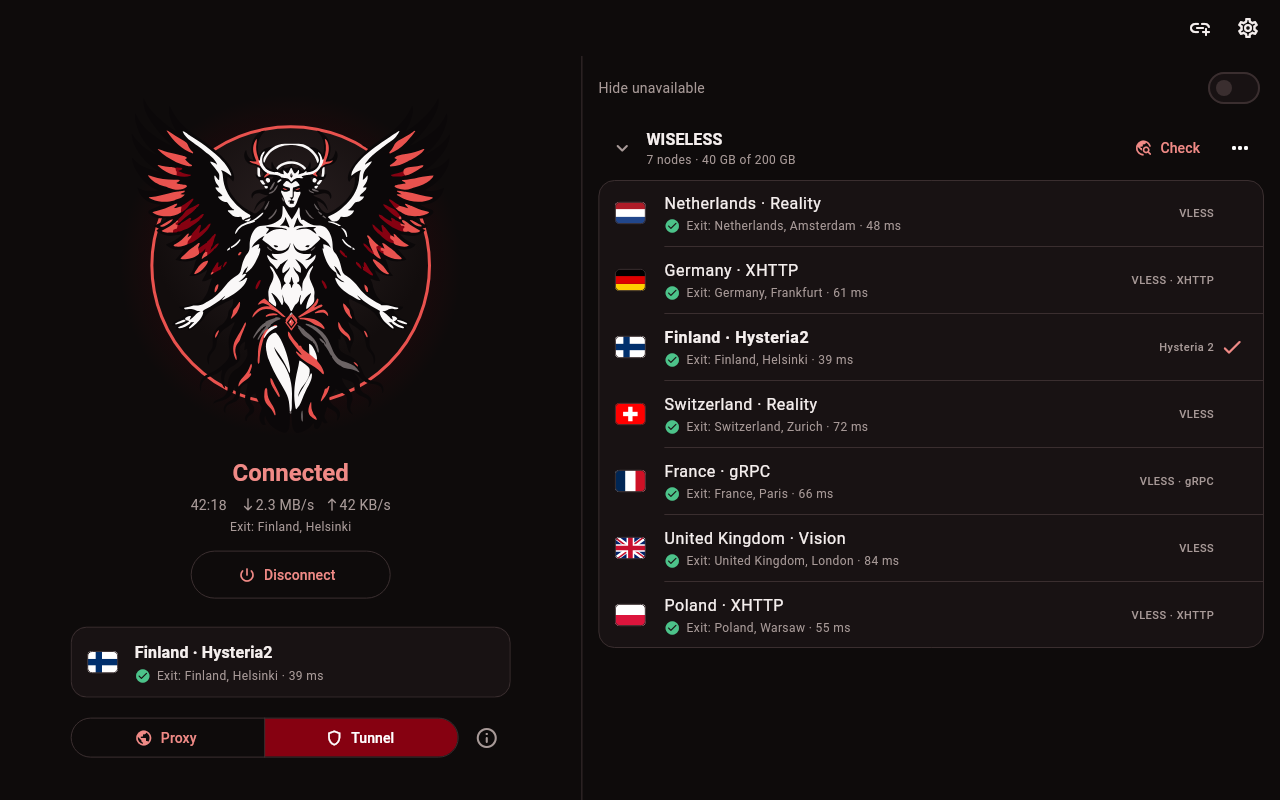
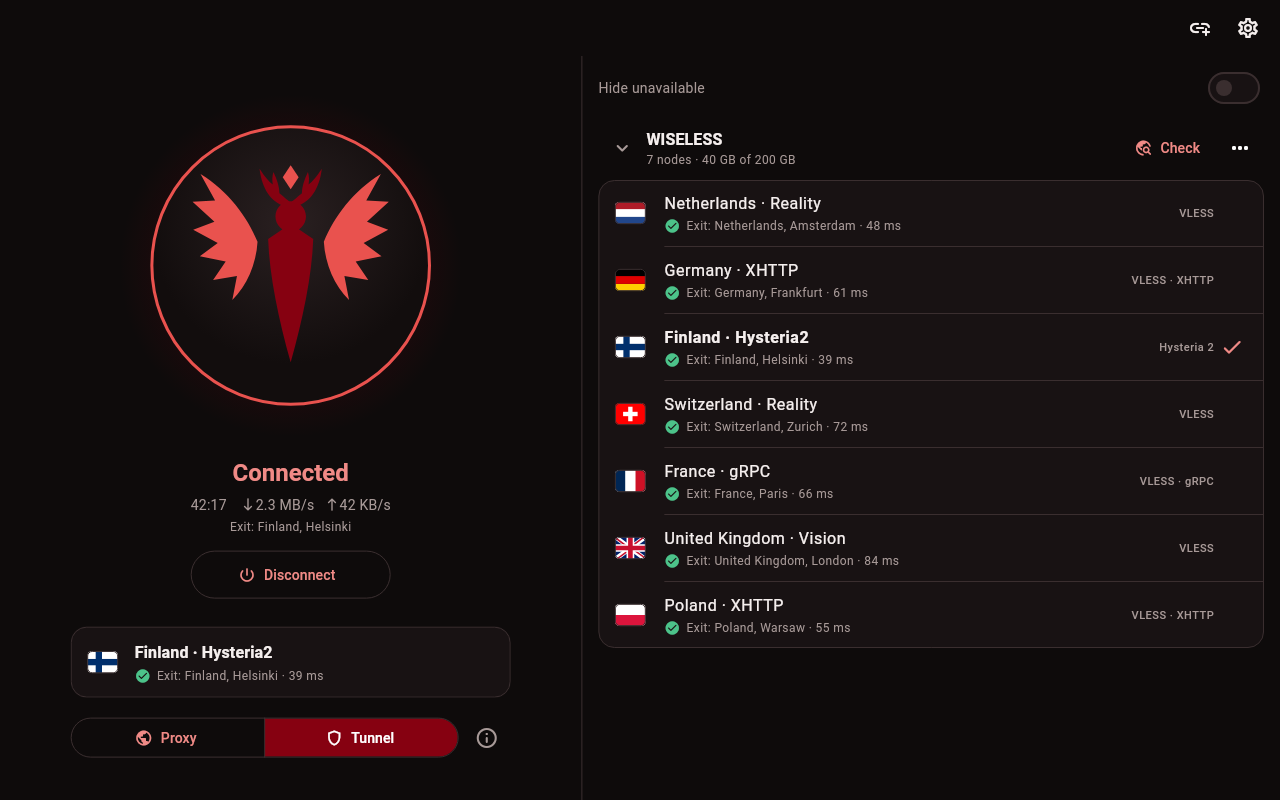
0.6.0 notes, README with the glyph, screenshots

Changed region(s): [[0.125, 0.1562, 0.3438, 0.5312]]

diff --git a/app/tool/readme_screenshots.dart b/app/tool/readme_screenshots.dart
@@ -125,6 +125,8 @@ void main() {
 
   for (final (name, language, size, brightness, screen, hostKind) in cases) {
     if (!name.contains(only)) continue;
+    // The rest are for checking by eye: only with OUT, never into the README's.
+    if (Platform.environment['OUT'] == null && !name.startsWith('home-dark') && !name.startsWith('rules-dark')) continue;
     testWidgets(name, (tester) async {
       lang = language;
       final fonts = '$artifacts/material_fonts';

diff --git a/README.ru.md b/README.ru.md
@@ -1,5 +1,5 @@
 <p align="center">
-  <img src="assets/brand/crocell-emblem.svg" width="200" alt="Crocell">
+  <img src="assets/brand/crocell-glyph.svg" width="160" alt="Crocell">
 </p>
 
 <h1 align="center">Crocell</h1>
@@ -53,6 +53,7 @@
 ## Что умеет
 
 - Читает подписки любого вида: ссылки `vless://`, `vmess://`, `trojan://`, `ss://`, `hysteria2://`, `tuic://`, base64 от них, Clash/mihomo YAML с `proxy-providers`. Формат определяет сам, название, трафик и срок берёт из того, что присылает провайдер.
+- Принимает WireGuard и AmneziaWG: вставьте конфиг, ссылку `awg://` или ключ `vpn://` из AmneziaVPN.
 - Работает с VLESS Reality и Vision, XHTTP, Hysteria2 с obfs и всем остальным, что умеет mihomo.
 - Показывает ноду флагом и городом выхода после проверки, а не цифрой задержки. Если в названии Нидерланды, а выход в Германии, вы это увидите. Ноды, не прошедшие проверку, можно спрятать одним переключателем.
 - Подключается системным прокси (без прав администратора, для программ, которые его слушаются) или туннелем TUN для всей системы. На Android тот же выбор означает весь телефон через VPN или локальный прокси для приложений, где вы его указали.
@@ -60,6 +61,7 @@
 - Проверяет соединение сразу после подключения и потом раз в пару минут, а если трафик перестал проходить, присылает уведомление.
 - Сам подхватывает новые настройки: поменяли правило при включённом VPN, и туннель тихо переподключился.
 - Включается и выключается, не открывая окна: плитка в шторке Android и переключатель в быстрых настройках GNOME (ставится из настроек кнопкой «Добавить в быстрые настройки GNOME»).
+- Даёт выбрать картинку на кнопке, а на Windows и Android ещё и иконку приложения с фоном. На macOS выбор из двух, и значок сам следует за светлой или тёмной темой.
 - Копирует свои логи одной кнопкой, без ссылок на подписки: если что-то сломалось и хочется рассказать нам.
 - Хранит подписки и настройки зашифрованными в AES-256-GCM. На Linux ключ запечатан через `systemd-creds` (с TPM, если он есть), на Android лежит в Keystore. Скопированный файл состояния на другой машине бесполезен.
 

diff --git a/.github/release-notes/v0.6.0.md b/.github/release-notes/v0.6.0.md
@@ -1,0 +1,15 @@
+Обычный человек, увидев нашу иконку, сказал: «Я не хочу сатану на телефоне». Теперь по умолчанию простой глиф, а Кроцелл доступен тем, кому он нравится.
+
+## Новое
+
+- **Глиф по умолчанию.** На кнопке подключения и на иконке теперь простой знак с крыльями. Они раскрываются при подключении, как раньше у фигуры.
+- **«Оформление» в настройках.** На Windows и Android можно выбрать картинку (4 стиля глифа и 2 варианта Кроцелла) и фон иконки приложения. На macOS выбор из глифа и Кроцелла, а фон значка сам следует за светлой или тёмной темой. На Linux приложение не может менять свой значок, поэтому там всегда Кроцелл и этой кнопки нет. На компьютерах значок в Dock и на панели задач меняется, пока Crocell запущен. В Finder и в ярлыке остаётся стандартный.
+- **AmneziaWG и WireGuard.** Crocell читает конфиги WireGuard с полями AmneziaWG, ссылки `awg://`, `amneziawg://`, `wireguard://`, `wg://` и ключи `vpn://` из AmneziaVPN. Из ключа берутся контейнеры WireGuard и AmneziaWG. Ключи, которые сами ходят за настройками на сервис Amnezia, Crocell не читает и прямо об этом скажет.
+- **Вставка без подписки.** В окно добавления теперь можно вставить не только ссылку на подписку, но и сам конфиг или ссылку на одну ноду, например `vless://`. Такой текст содержит ключи, поэтому в списке подписок он не показывается.
+
+## Как обновиться
+
+- **Android:** откройте новый `Crocell.apk` и нажмите «Обновить». Иконка сменится на новую. Если она пропала с рабочего стола, добавьте её заново из списка приложений.
+- **Linux:** Gear Lever подтянет новую версию. Потом нажмите «Обновить службу» на плашке в Crocell или выполните `sudo ~/AppImages/crocell.appimage crocelld install`.
+- **Windows:** запустите новый `Crocell-x86_64-Setup.exe` поверх старого.
+- **macOS:** замените Crocell в «Программах» версией из `Crocell-arm64.dmg` и нажмите «Обновить службу».

diff --git a/README.md b/README.md
@@ -1,5 +1,5 @@
 <p align="center">
-  <img src="assets/brand/crocell-emblem.svg" width="200" alt="Crocell">
+  <img src="assets/brand/crocell-glyph.svg" width="160" alt="Crocell">
 </p>
 
 <h1 align="center">Crocell</h1>
@@ -53,6 +53,7 @@ On a desktop the VPN is held by a small system service, so closing or updating t
 ## What it does
 
 - Takes subscriptions in any shape: `vless://`, `vmess://`, `trojan://`, `ss://`, `hysteria2://`, `tuic://` links, base64 of them, or Clash/mihomo YAML with `proxy-providers`. It figures out the format itself and reads the title, traffic and expiry the provider sends.
+- Takes WireGuard and AmneziaWG too: paste a config, an `awg://` link or a `vpn://` key from AmneziaVPN.
 - Handles VLESS Reality and Vision, XHTTP, Hysteria2 with obfs, and the rest of what mihomo supports.
 - Shows each node as a flag and an exit city after a check, not as a latency number. If the name says Netherlands and the exit says Germany, you'll see that. Nodes that failed their check can be hidden with one switch.
 - Runs as a system proxy (no admin rights, for apps that respect it) or as a TUN tunnel for the whole system. On Android the same choice means the whole phone through the VPN, or a local proxy for the apps you point at it.
@@ -60,6 +61,7 @@ On a desktop the VPN is held by a small system service, so closing or updating t
 - Checks the connection right after connecting and every couple of minutes, and sends a notification if traffic stops getting through.
 - Picks up new settings on its own: change a rule while connected and the tunnel quietly reconnects.
 - Turns on and off without opening the window: a Quick Settings tile on Android, and a toggle in GNOME's quick settings (Settings → "Add to GNOME quick settings" installs it).
+- Lets you pick the picture on the button and, on Windows and Android, the app icon with its background. macOS picks between two and follows the system's light or dark look.
 - Copies its logs with one button, subscription links taken out, for when something breaks and you want to tell us.
 - Keeps subscriptions and settings encrypted with AES-256-GCM. On Linux the key is sealed with `systemd-creds` (TPM when there is one), on Android it sits in the Keystore. A copied state file is useless anywhere else.
 
